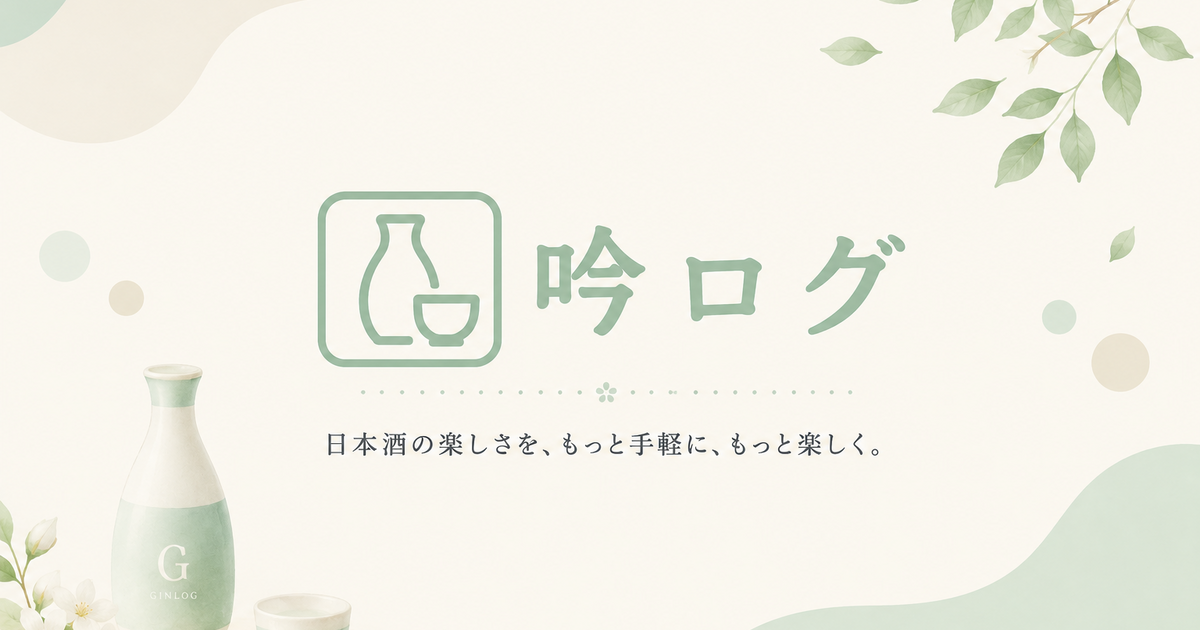
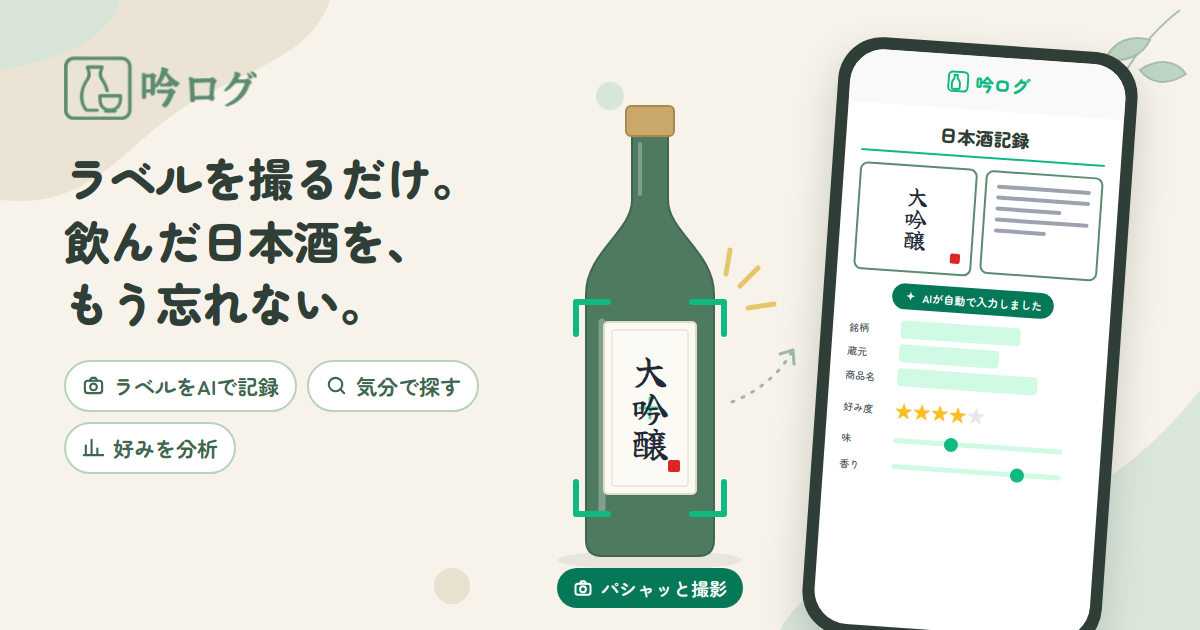
chore: OGP画像を刷新し、記録詳細のOGPに本物のロゴを使う
- 静的OGP画像を「ラベルを撮るだけ」のキャッチコピーと撮影・記録画面の絵に差し替え
- 記録詳細のOGP画像の左上を、アイコンと文字の重ね合わせからロゴ画像1枚に変更
- ロゴ画像を重ねることのテストを追加

diff --git a/app/helpers/sake_log_images_helper.rb b/app/helpers/sake_log_images_helper.rb
@@ -7,9 +7,9 @@
 module SakeLogImagesHelper
   # ラベル写真が無い記録で使う土台画像
   OGP_BASE_PUBLIC_ID = "ginlog_ogp_base".freeze
-  # OGP画像に重ねるファビコン
-  OGP_ICON_PUBLIC_ID = "ginlog_ogp_icon".freeze
-  OGP_ICON_SIZE = 56
+  # OGP画像の左上に重ねるロゴ（アイコンと「吟ログ」の文字が一体になった画像）
+  OGP_LOGO_PUBLIC_ID = "ginlog_ogp_logo".freeze
+  OGP_LOGO_HEIGHT = 64
   OGP_FONT_FAMILY = "Sawarabi Gothic".freeze
   # 静的OGP画像に合わせたクリーム色（写真の余白を埋める）
   OGP_BACKGROUND_COLOR = "#F7F3EA".freeze
@@ -92,9 +92,8 @@ module SakeLogImagesHelper
     [
       { width: 520, height: 630, crop: :pad, background: OGP_BACKGROUND_COLOR },
       { width: 1200, height: 630, crop: :pad, gravity: :east, background: OGP_BACKGROUND_COLOR },
-      { overlay: OGP_ICON_PUBLIC_ID, width: OGP_ICON_SIZE, height: OGP_ICON_SIZE, crop: :fit,
+      { overlay: OGP_LOGO_PUBLIC_ID, height: OGP_LOGO_HEIGHT, crop: :fit,
         gravity: :north_west, x: OGP_TEXT_X, y: 44 },
-      ogp_text_layer("吟ログ", size: 48, color: "#5B8C6F", x: OGP_TEXT_X + OGP_ICON_SIZE + 12, y: 48, bold: true),
       # 銘柄名は1行に収めるため8文字で切る（72px × 8文字 ≒ 580px）
       ogp_text_layer(sake_log.sake.brand.name.truncate(8, omission: "…"), size: 72, color: "#333333", y: 140, bold: true),
       # 商品名は折り返して2行までに収める（48px × 12文字 ≒ 580px で1行）

diff --git a/spec/helpers/sake_log_images_helper_spec.rb b/spec/helpers/sake_log_images_helper_spec.rb
@@ -46,6 +46,11 @@ RSpec.describe SakeLogImagesHelper, type: :helper do
         expect(url).to include "/#{SakeLogImagesHelper::OGP_BASE_PUBLIC_ID}.jpg"
       end
 
+      it "左上にロゴ画像を重ねる" do
+        url = helper.sake_log_ogp_image_url(sake_log)
+
+        expect(url).to include "l_#{SakeLogImagesHelper::OGP_LOGO_PUBLIC_ID}"
+      end
 
       it "銘柄名・商品名・蔵元名・都道府県・好み度（★）が文字として重なる" do
         url = helper.sake_log_ogp_image_url(sake_log)
